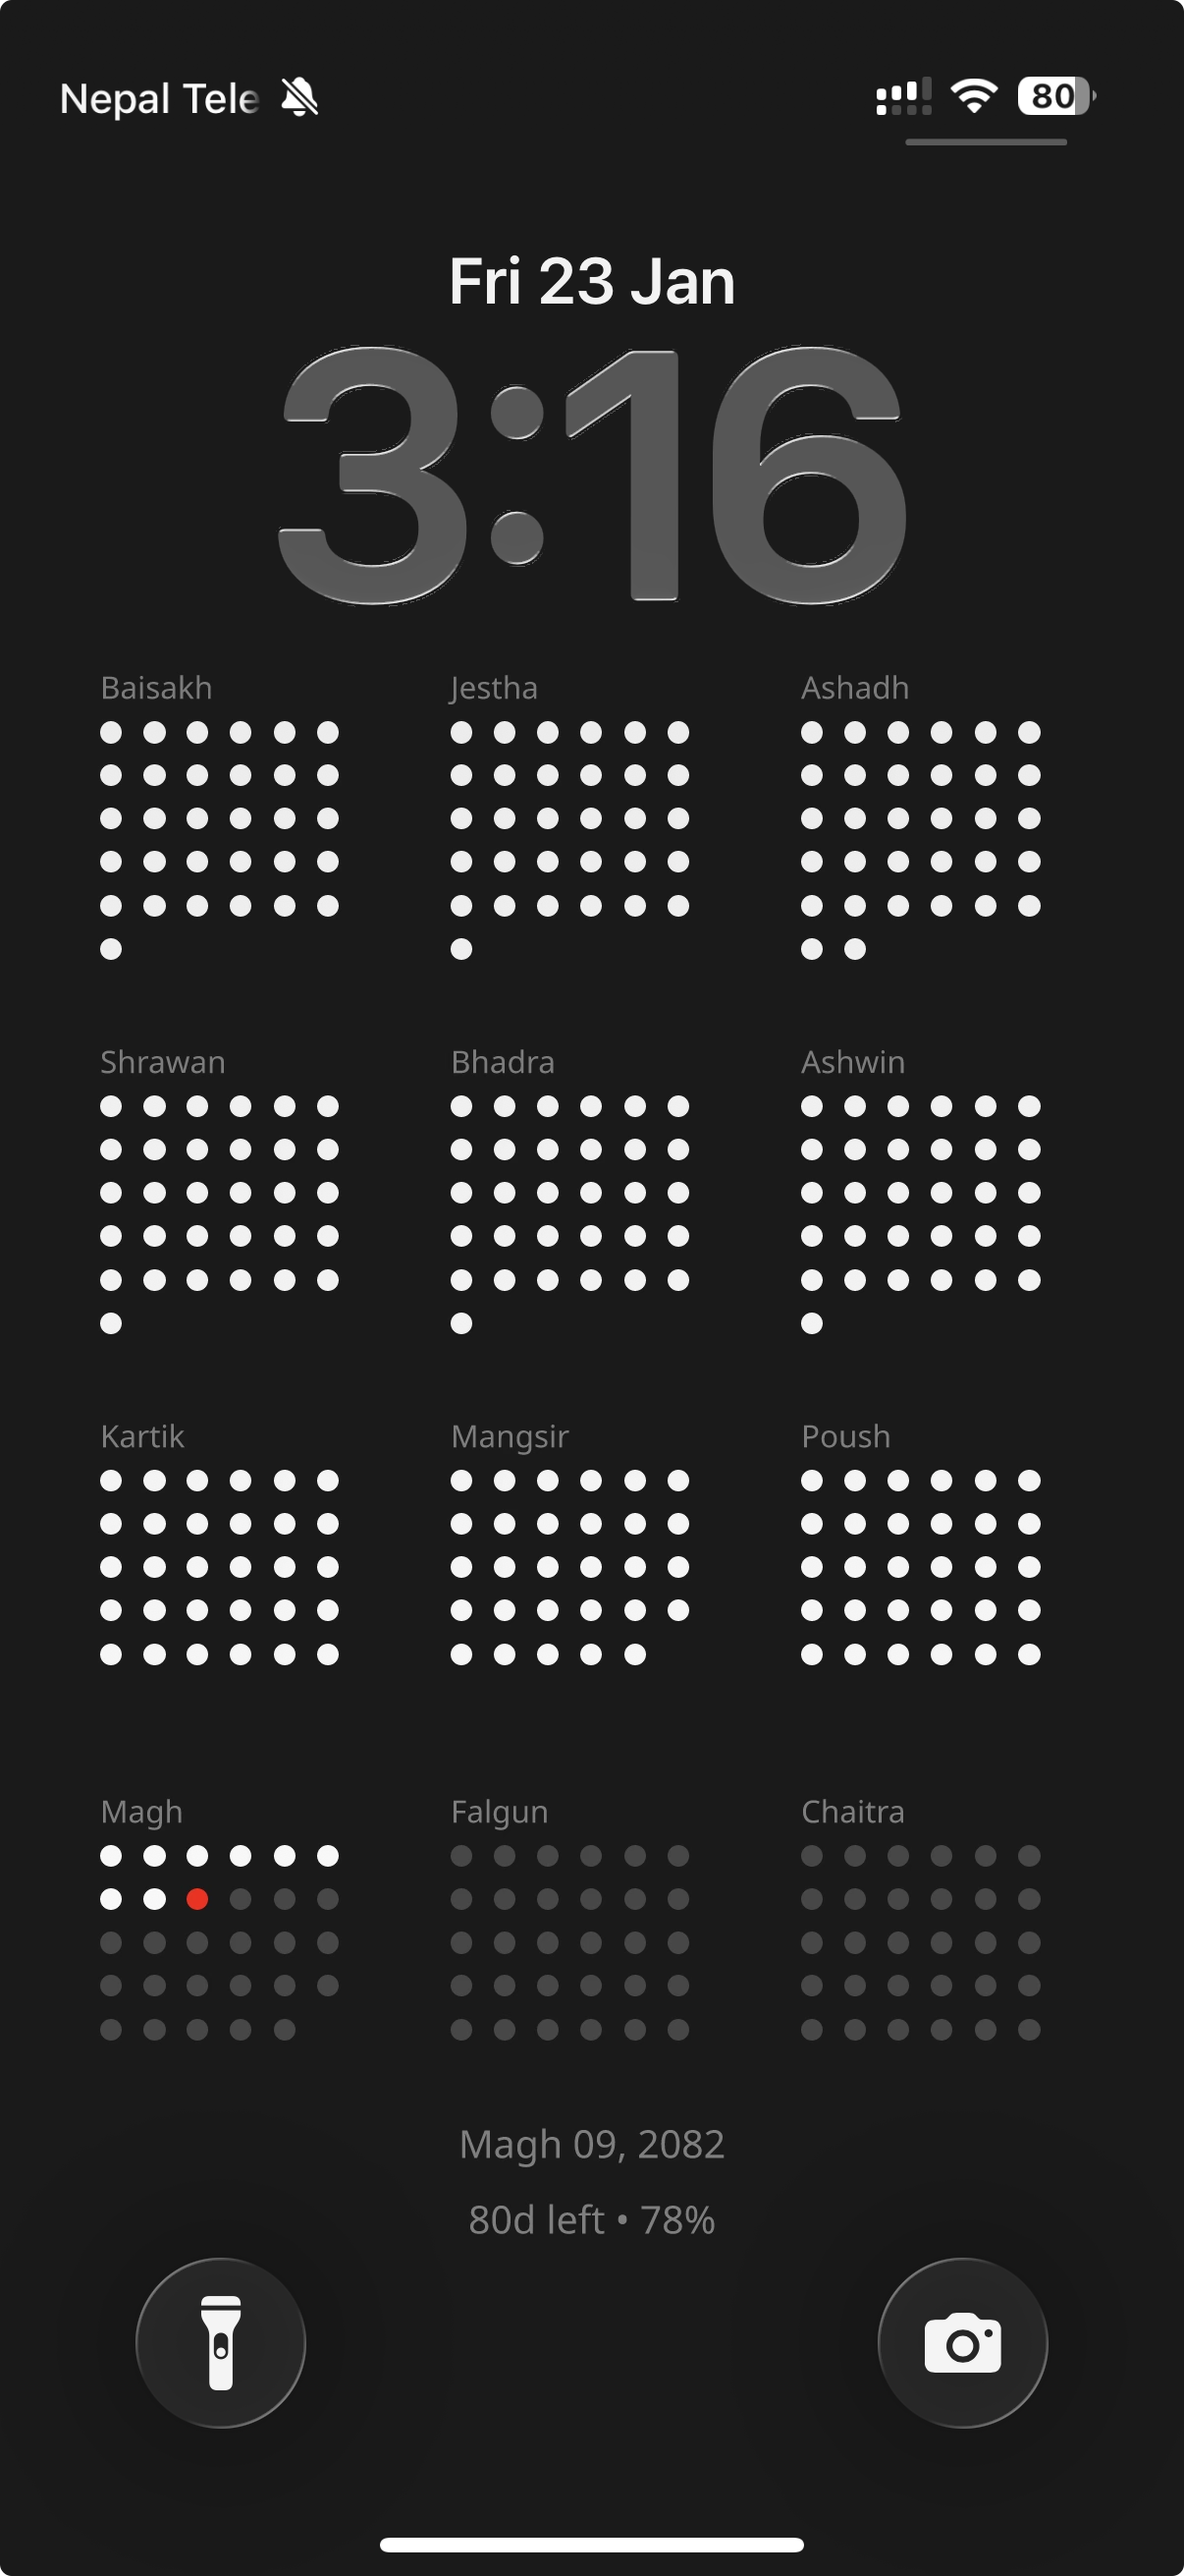
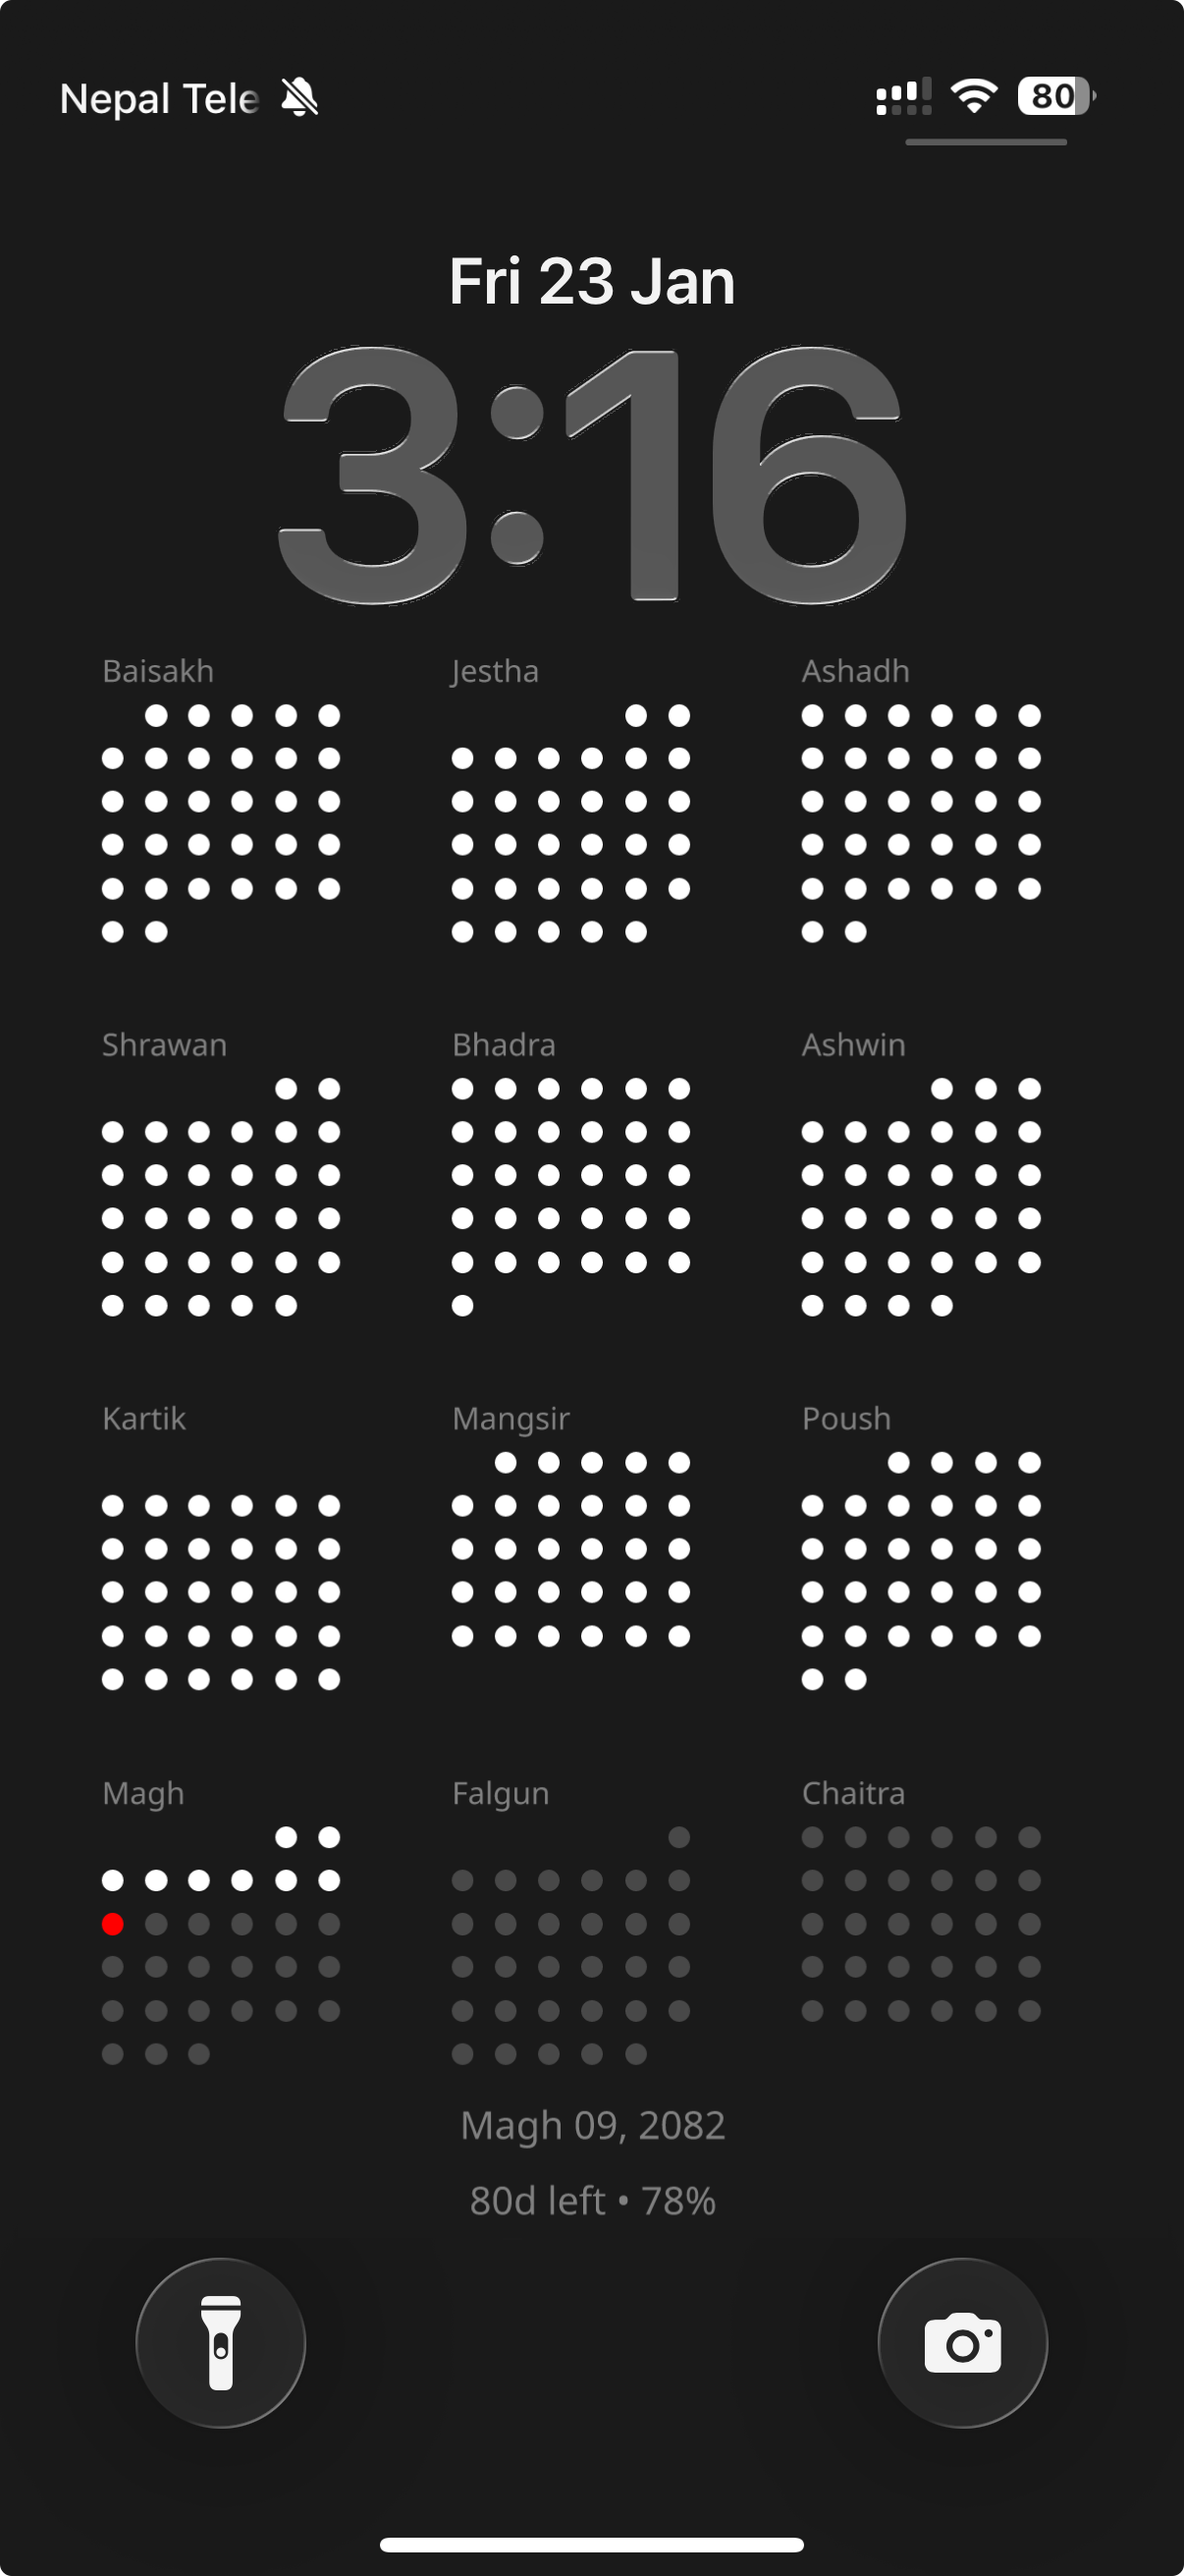
week of day added in months grid

diff --git a/src/generator.ts b/src/generator.ts
@@ -2,6 +2,7 @@ import {
   getDaysInMonth,
   getDaysInYear,
   formatNepaliDate,
+  getNepaliDayOfWeek,
   type NepaliDate,
   NEPALI_MONTHS,
 } from "./date_helper";
@@ -237,8 +238,33 @@ export function generateMonthsGridJSON(
     const daysInThisMonth = getDaysInMonth(currentNepaliDate.year, m);
     const monthDots = [];
 
-    for (let d = 1; d <= dayCols * dayRows; d++) {
-      const isInMonth = d <= daysInThisMonth;
+    // Get the day of week for the first day of this month (0=Sunday, 1=Monday, etc.)
+    const firstDayOfMonth: NepaliDate = {
+      year: currentNepaliDate.year,
+      month: m,
+      day: 1,
+    };
+    const startingDayOfWeek = getNepaliDayOfWeek(firstDayOfMonth);
+
+    // Create empty cells for days before the first day of month
+    for (let emptyDay = 0; emptyDay < startingDayOfWeek; emptyDay++) {
+      monthDots.push({
+        type: "div",
+        props: {
+          style: {
+            width: `${dotSize}px`,
+            height: `${dotSize}px`,
+            backgroundColor: "transparent",
+            borderRadius: "50%",
+            margin: `${gap / 2}px`,
+            opacity: 0,
+          },
+        },
+      });
+    }
+
+    // Create dots for actual days in the month
+    for (let d = 1; d <= daysInThisMonth; d++) {
       let isPassed = false;
       let isCurrent = false;
 
@@ -261,7 +287,26 @@ export function generateMonthsGridJSON(
             backgroundColor: isCurrent ? "red" : "white",
             borderRadius: "50%",
             margin: `${gap / 2}px`,
-            opacity: !isInMonth ? 0 : isPassed || isCurrent ? 1 : 0.2,
+            opacity: isPassed || isCurrent ? 1 : 0.2,
+          },
+        },
+      });
+    }
+
+    // Fill remaining cells if needed to complete the grid
+    const totalCellsUsed = startingDayOfWeek + daysInThisMonth;
+    const totalCells = dayCols * dayRows;
+    for (let fillDay = totalCellsUsed; fillDay < totalCells; fillDay++) {
+      monthDots.push({
+        type: "div",
+        props: {
+          style: {
+            width: `${dotSize}px`,
+            height: `${dotSize}px`,
+            backgroundColor: "transparent",
+            borderRadius: "50%",
+            margin: `${gap / 2}px`,
+            opacity: 0,
           },
         },
       });

diff --git a/client/src/components/dev/DevTestView.tsx b/client/src/components/dev/DevTestView.tsx
@@ -36,13 +36,13 @@ export function DevTestView() {
                 </CardHeader>
                 <CardContent className="p-4 bg-muted/20">
                   <img
-                    src={`${SERVER_URL}/api/year-progress/days?width=${device.width}&height=${device.height}`}
+                    src={`${SERVER_URL}/api/days?width=${device.width}&height=${device.height}`}
                     alt={`${device.label} Days`}
                     className="w-full h-auto aspect-[9/19.5] object-contain bg-black rounded shadow-lg border"
                     loading="lazy"
                   />
                   <div className="mt-2 text-[10px] text-muted-foreground break-all font-mono">
-                    {`${SERVER_URL}/api/year-progress/days?width=${device.width}&height=${device.height}`}
+                    {`${SERVER_URL}/api/days?width=${device.width}&height=${device.height}`}
                   </div>
                 </CardContent>
               </Card>
@@ -56,13 +56,13 @@ export function DevTestView() {
                 </CardHeader>
                 <CardContent className="p-4 bg-muted/20">
                   <img
-                    src={`${SERVER_URL}/api/year-progress/months?width=${device.width}&height=${device.height}`}
+                    src={`${SERVER_URL}/api/months?width=${device.width}&height=${device.height}`}
                     alt={`${device.label} Months`}
                     className="w-full h-auto aspect-[9/19.5] object-contain bg-black rounded shadow-lg border"
                     loading="lazy"
                   />
                   <div className="mt-2 text-[10px] text-muted-foreground break-all font-mono">
-                    {`${SERVER_URL}/api/year-progress/months?width=${device.width}&height=${device.height}`}
+                    {`${SERVER_URL}/api/months?width=${device.width}&height=${device.height}`}
                   </div>
                 </CardContent>
               </Card>

diff --git a/src/index.ts b/src/index.ts
@@ -33,7 +33,7 @@ function getCacheHeaders(
   };
 }
 
-app.get("/api/year-progress/days", async (c) => {
+app.get("/api/days", async (c) => {
   try {
     const queryData = c.req.query();
     const validatedData = schema.safeParse(queryData);
@@ -92,7 +92,7 @@ app.get("/api/year-progress/days", async (c) => {
   }
 });
 
-app.get("/api/year-progress/months", async (c) => {
+app.get("/api/months", async (c) => {
   try {
     const queryData = c.req.query();
     const validatedData = schema.safeParse(queryData);
@@ -150,7 +150,5 @@ app.get("/api/year-progress/months", async (c) => {
     return c.json({ error: "Failed to generate image" }, 500);
   }
 });
-
-app.get("/api/year-progress", (c) => c.redirect("/api/year-progress/days"));
 
 export default app;

diff --git a/client/src/components/setup/DeviceSetup.tsx b/client/src/components/setup/DeviceSetup.tsx
@@ -61,7 +61,7 @@ export function DeviceSetup({
   const wallpaperUrl = useMemo(() => {
     if (!selectedDeviceDetails) return "";
     const endpoint = wallpaperType === "days" ? "days" : "months";
-    return `${window.location.origin}/api/year-progress/${endpoint}?width=${selectedDeviceDetails.width}&height=${selectedDeviceDetails.height}`;
+    return `${window.location.origin}/api/${endpoint}?width=${selectedDeviceDetails.width}&height=${selectedDeviceDetails.height}`;
   }, [selectedDeviceDetails, wallpaperType]);
 
   const handleCopyUrl = async () => {

diff --git a/src/date_helper.ts b/src/date_helper.ts
@@ -719,6 +719,11 @@ export function getNepaliDayName(nepaliDate: NepaliDate): string {
   return NEPALI_DAYS[dayIndex];
 }
 
+export function getNepaliDayOfWeek(nepaliDate: NepaliDate): number {
+  const englishDate = nepaliToEnglish(nepaliDate);
+  return englishDate.getDay();
+}
+
 export function addDays(nepaliDate: NepaliDate, days: number): NepaliDate {
   const englishDate = nepaliToEnglish(nepaliDate);
   englishDate.setDate(englishDate.getDate() + days);
